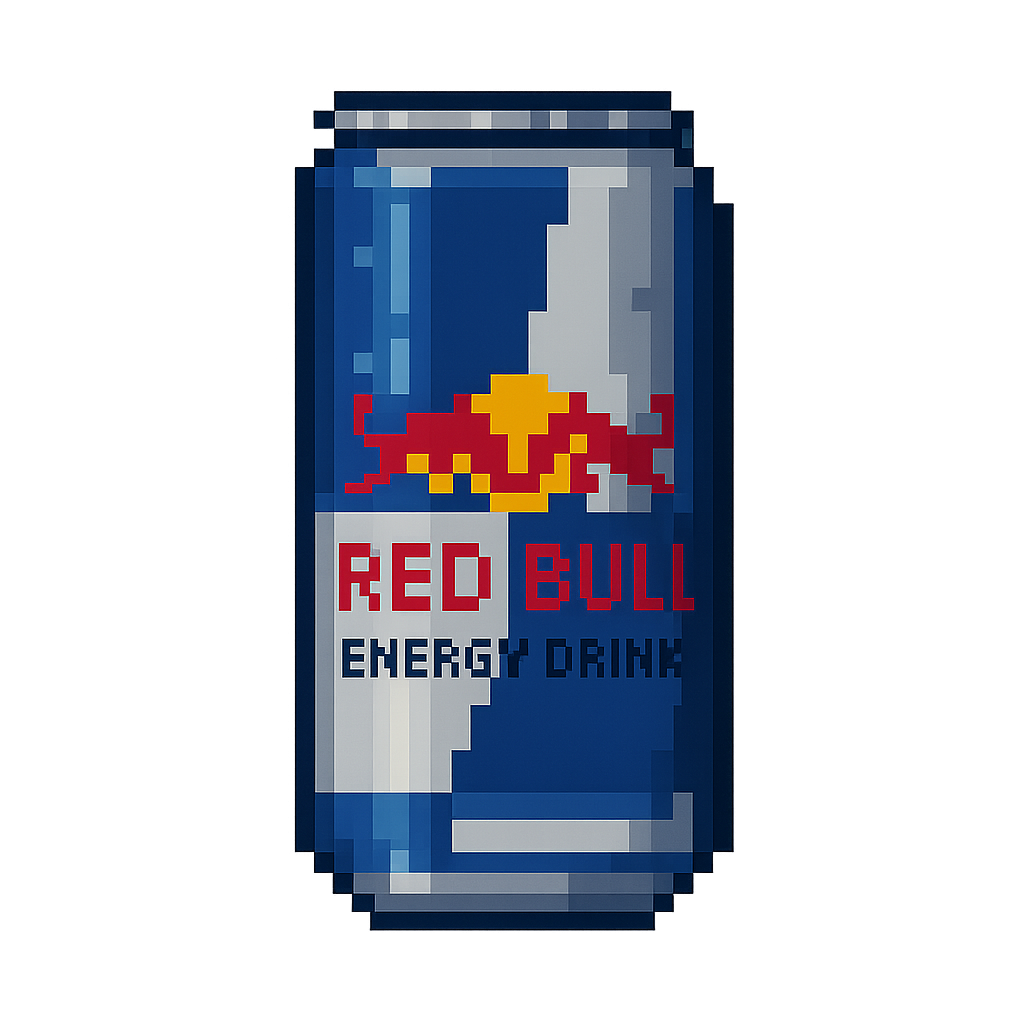
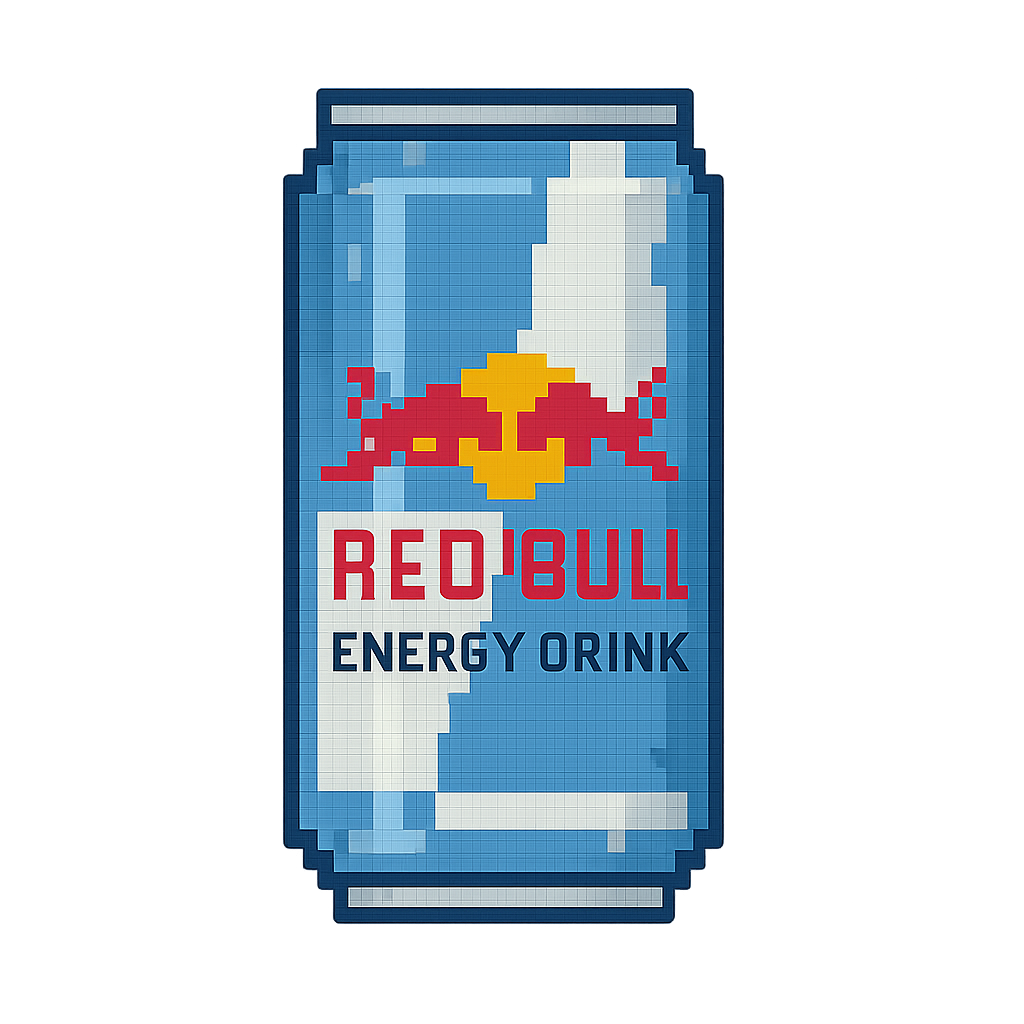
arrumando cor e taamnho do energetico

diff --git a/Scripts/coletaveis.py b/Scripts/coletaveis.py
@@ -8,9 +8,9 @@ class Coletaveis:
         self.cura = pygame.image.load("images/vida.png").convert_alpha()
         self.cura = pygame.transform.scale(self.cura,(50,50))
         self.energetico = pygame.image.load("images/energetico.png").convert_alpha()
-        self.energetico = pygame.transform.scale(self.energetico,(50,50))
+        self.energetico = pygame.transform.scale(self.energetico,(60,60))
         self.slow = pygame.image.load("images/slowdown.png").convert_alpha()
-        self.slow = pygame.transform.scale(self.slow,(50,50))
+        self.slow = pygame.transform.scale(self.slow,(60,60))
         self.rect = None
         self.cura_qnt = 0
         self.energetico_qnt = 0
